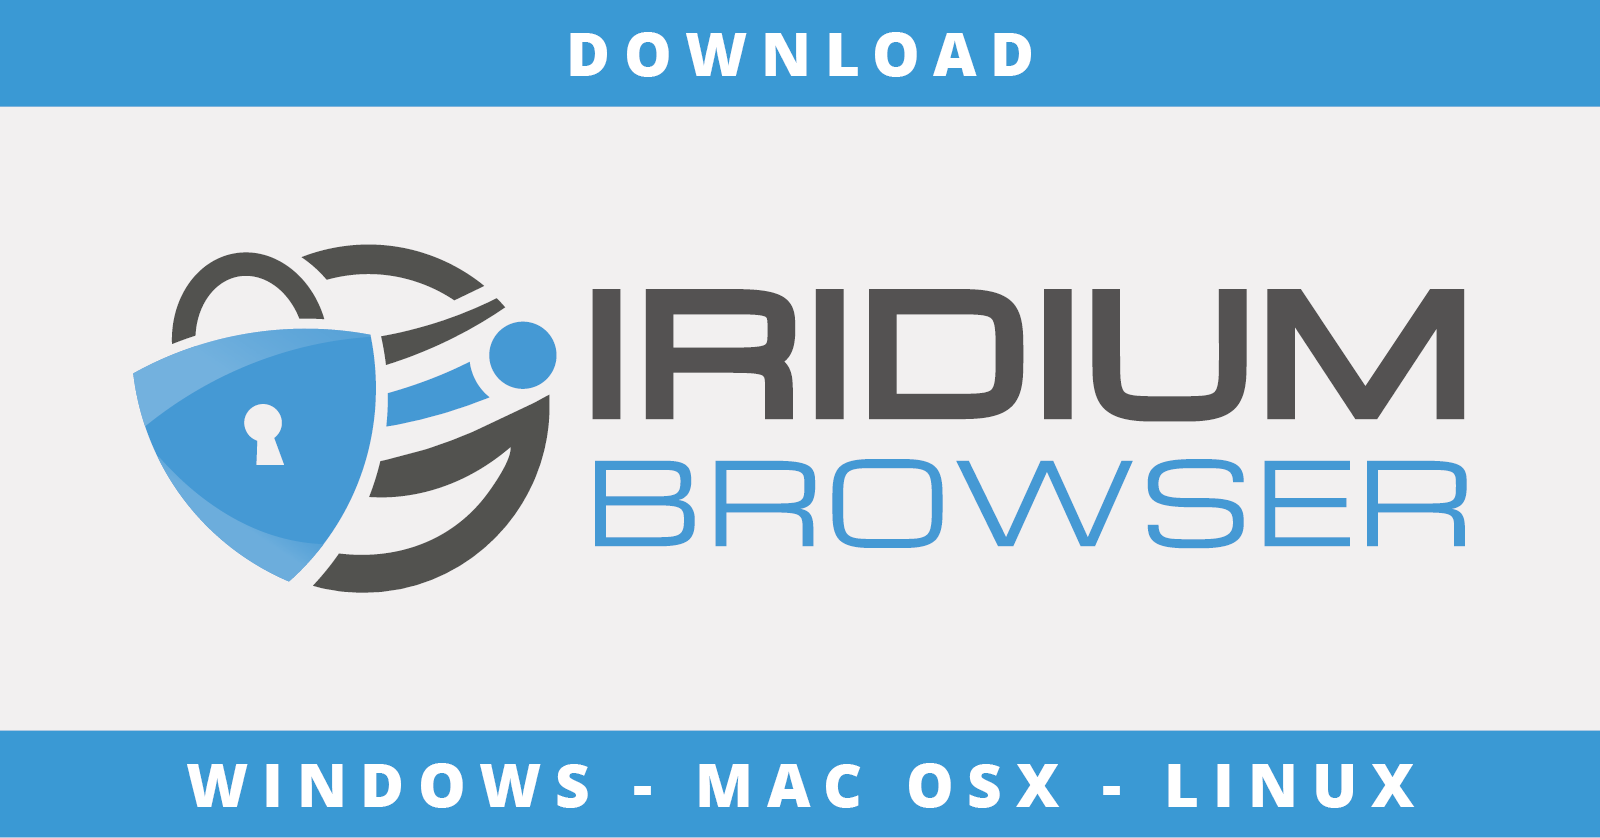
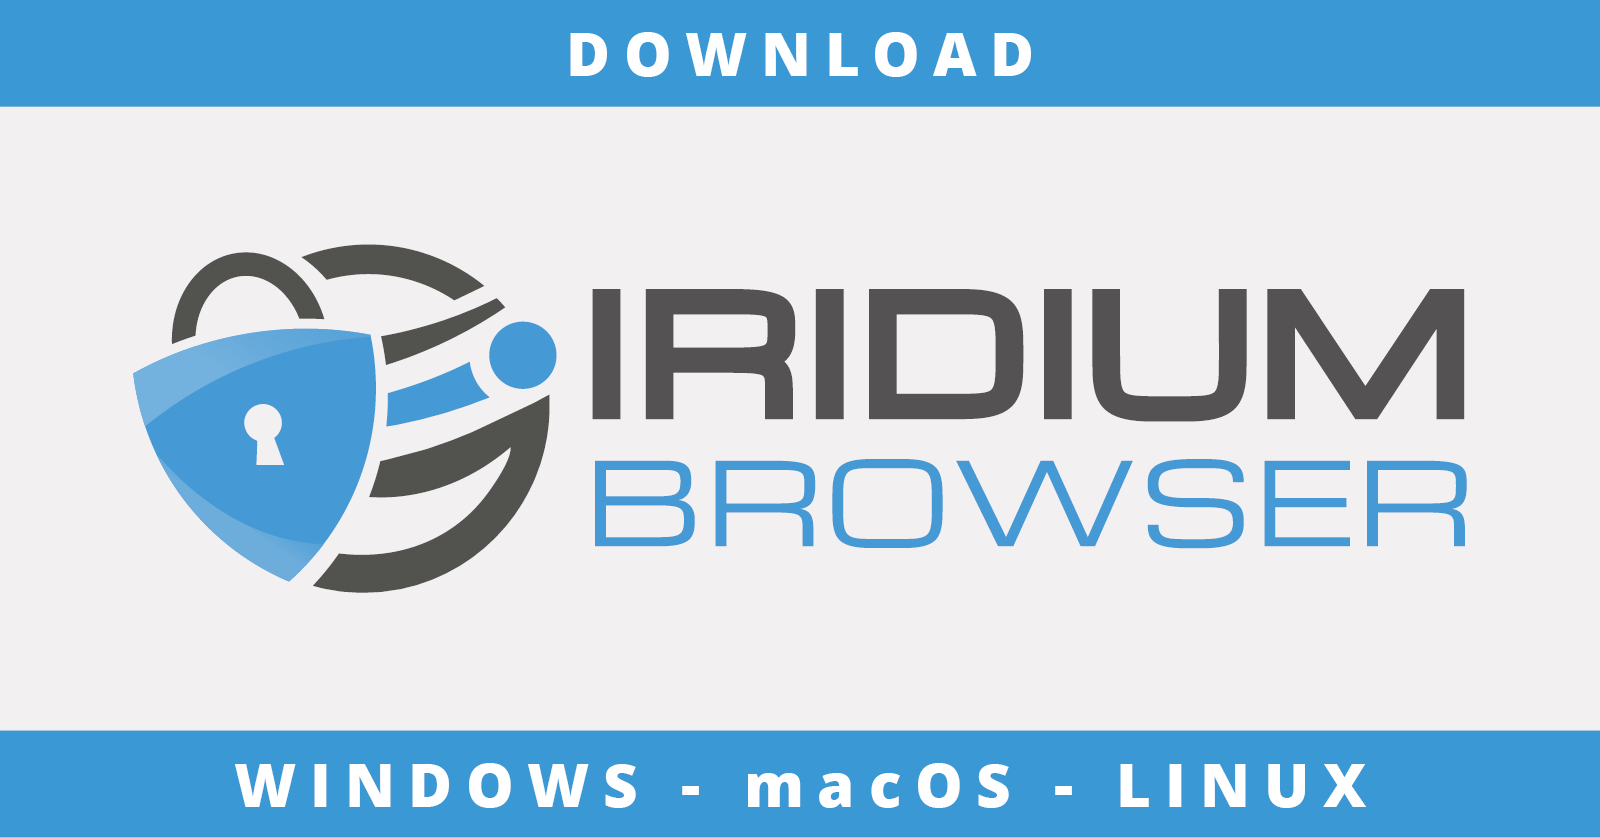
corrected macOSX to macOS
content and graphics

Changed region(s): [[0.0938, 0.8998, 0.9062, 0.9618]]

diff --git a/_posts/2017-10-25-fedora-rhel-release-v61.md b/_posts/2017-10-25-fedora-rhel-release-v61.md
@@ -1,8 +1,8 @@
 ---
 layout: post
 style: style2
-title:  "Version 61.0 now available for Fedora and RHEL/Centos"
-description: Iridium Browser version 61 builds for Windows Mac OSX openSUSE Leap 42.2, 42.3, Tumbleweed, Fedora 25/26 and RHEL/Centos 7 now available! Releases for Debian/Ubuntu and Fedora to follow.
+title:  "Version 61.0 now available for Fedora and RHEL/CentOS"
+description: Iridium Browser version 61 builds for Windows, macOS openSUSE Leap 42.2/42.3/Tumbleweed, Fedora 25/26 and RHEL/CentOS 7 now available! Releases for Debian/Ubuntu and Fedora to follow.
 date:   2017-10-25 11:11:11 +0200
 author:	by admin
 categories: news
@@ -11,9 +11,9 @@ hotpic-tw: "/images/hotpics/Iridium-tw_hotpic-download.png"
 menu: no
 ---
 
-Iridium Browser **version 61.0** builds now also available for  **Fedora 25 + 26 and Red Hat Enterprise Linux / Centos 7**!     
+Iridium Browser **version 61.0** builds now also available for  **Fedora 25 + 26 and Red Hat Enterprise Linux / CentOS 7**!     
 <!--break-->
-Latest builds for **Windows, Mac OSX** and **openSUSE** are also available.     
+Latest builds for **Windows, macOS** and **openSUSE** are also available.     
 
 Releases for **Debian/Ubuntu** to follow in due course.    
           

diff --git a/_marquee/marquee.md b/_marquee/marquee.md
@@ -4,4 +4,4 @@ title: "Marquee"
 ---
 
 
-[</> **Now available** Version 61 **for Windows, macOS, openSUSE Leap 42.2, 42.3, Tumbleweed, Fedora 25 + 26 as well as RHEL/Centos 7** - go to **Download section** </>](/downloads/ "download v61 for Windows,Mac OSX, openSUSE, Fedora and RHEL/Centos")
+[</> **Now available** Version 61 **for Windows, macOS, openSUSE Leap 42.2, 42.3, Tumbleweed, Fedora 25 + 26 as well as RHEL/CentOS 7** - go to **Download section** </>](/downloads/ "download v61 for Windows, macOS, openSUSE, Fedora and RHEL/CentOS")

diff --git a/downloads/linux.md b/downloads/linux.md
@@ -89,8 +89,9 @@ current version 2017-10
 \\
 system requirements   
 &#8226; 64-bit Ubuntu 14.04+, Debian 8+, Mint 17+   
-&#8226; openSUSE Leap 42.1+, Tumbleweed   
-&#8226; Fedora 24+ &#8226; Red Hat Enterprise Linux 7+   
+&#8226; openSUSE Leap 42.2+, Tumbleweed   
+&#8226; Fedora 25+       
+&#8226; Red Hat Enterprise Linux 7+   
 &#8226; An Intel Pentium 4 processor or later that's SSE2 capable
 
 ---
